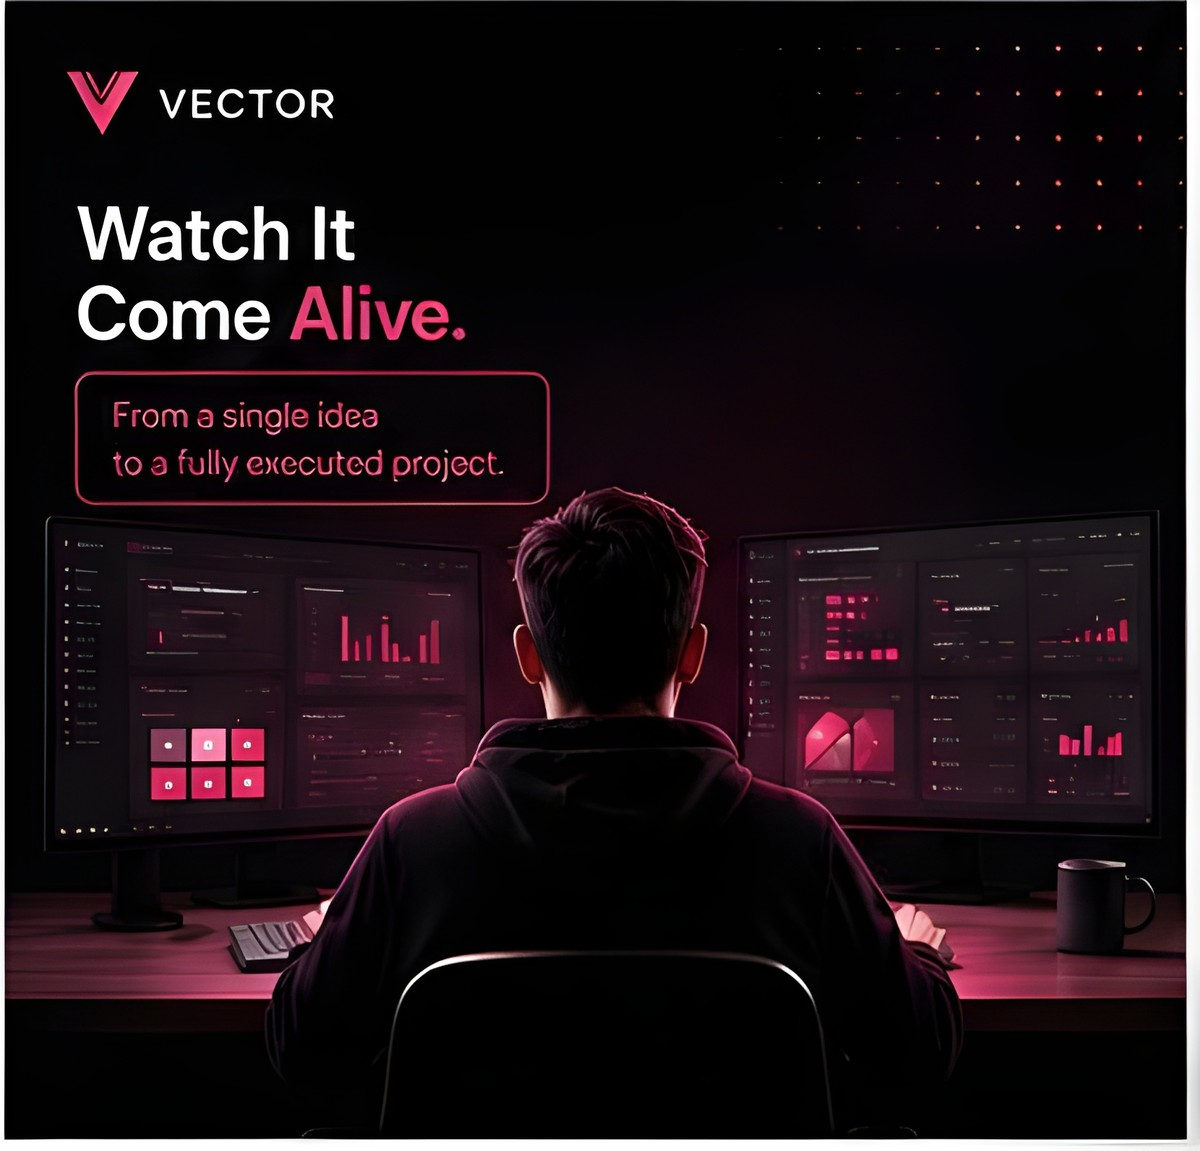
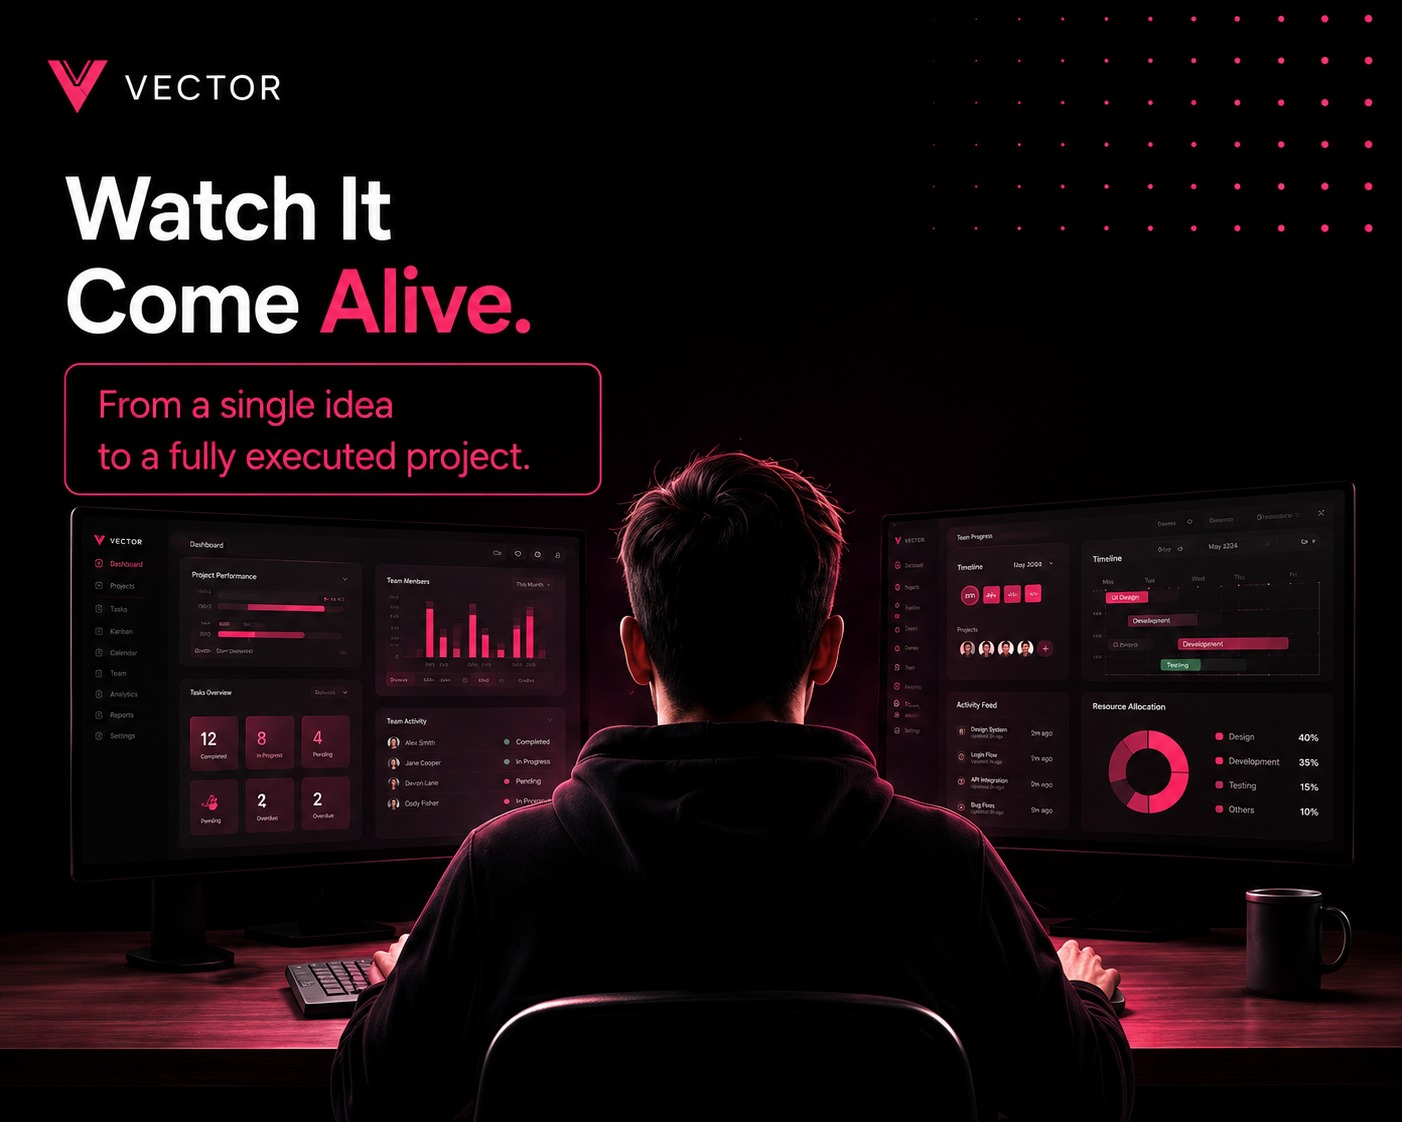
Swap in the real Vector Concept A slides
Replaced the low-res/upscaled vector-a-1..9.jpg with the full-resolution
originals the user provided (~1402x1122, consistent landscape ratio
across all 9 - no cropping needed). Updated the carousel viewport's
aspect-ratio (415/437 -> 1402/1122) to match. Concept B's vector-b-*.jpg
were left untouched per the user's request.

diff --git a/work/social-carousels.html b/work/social-carousels.html
@@ -142,7 +142,7 @@
       <p class="sc-project__text">A pink-on-black, photographic direction for Vector, an AI build agent. Bold headline slides alternate with product shots and lifestyle photography, tied together with one accent colour and a consistent V mark.</p>
     </div>
     <div class="carousel reveal">
-      <div class="carousel__viewport" style="aspect-ratio:415/437">
+      <div class="carousel__viewport" style="aspect-ratio:1402/1122">
         <div class="carousel__track">
           <img src="../assets/work/social-carousels/vector-a-1.jpg" alt="Vector concept A carousel slide 1 of 9" loading="lazy">
           <img src="../assets/work/social-carousels/vector-a-2.jpg" alt="Vector concept A carousel slide 2 of 9" loading="lazy">
